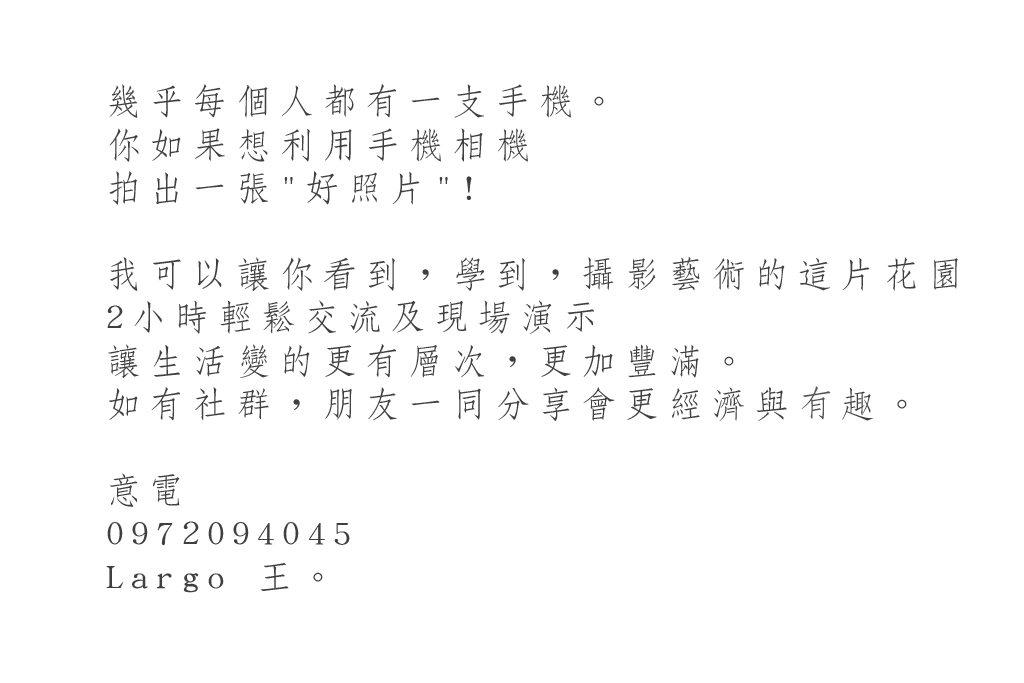
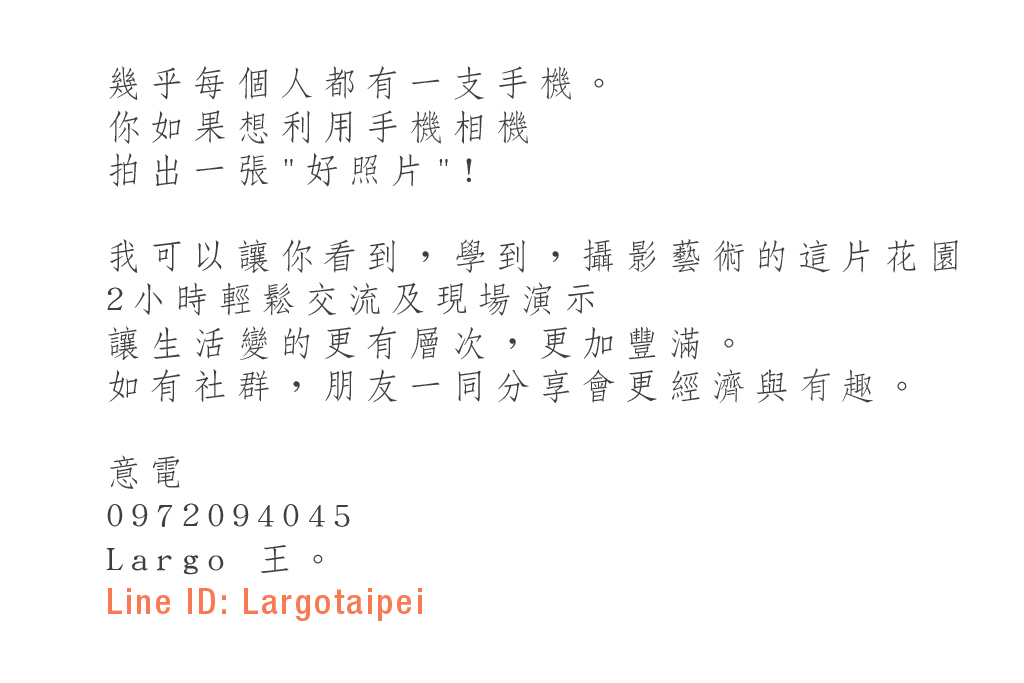
0831
0831

Changed region(s): [[0.0938, 0.3382, 0.9375, 0.6149], [0.0938, 0.0922, 0.5625, 0.3075], [0.0938, 0.6764, 0.4375, 0.9224]]

diff --git a/teaching.html b/teaching.html
@@ -112,6 +112,36 @@
 							<h2></h2>
 							<p></p>
 						</article>
+                                                  <article class="thumb">
+							<a href="images3/fulls/18.jpg" class="image"><img src="images3/thumbs/18.jpg" alt="" /></a>
+							<h2></h2>
+							<p></p>
+						</article>
+						 <article class="thumb">
+							<a href="images3/fulls/19.jpg" class="image"><img src="images3/thumbs/19.jpg" alt="" /></a>
+							<h2></h2>
+							<p></p>
+						</article>
+						 <article class="thumb">
+							<a href="images3/fulls/20.jpg" class="image"><img src="images3/thumbs/20.jpg" alt="" /></a>
+							<h2></h2>
+							<p></p>
+						</article>
+						 <article class="thumb">
+							<a href="images3/fulls/21.jpg" class="image"><img src="images3/thumbs/21.jpg" alt="" /></a>
+							<h2></h2>
+							<p></p>
+						</article>
+						 <article class="thumb">
+							<a href="images3/fulls/22.jpg" class="image"><img src="images3/thumbs/22.jpg" alt="" /></a>
+							<h2></h2>
+							<p></p>
+						</article>
+						 <article class="thumb">
+							<a href="images3/fulls/23.jpg" class="image"><img src="images3/thumbs/23.jpg" alt="" /></a>
+							<h2></h2>
+							<p></p>
+						</article>
 					</div>
 
 				<!-- Footer -->

diff --git a/photo.html b/photo.html
@@ -21,7 +21,8 @@
 					<div class="content">
 						<h1>Largo Photography</h1>
 						<h2>商品,人物,景觀,餐飲,抽象表達<br />
-						0972094045</h2>
+						0972094045 <br />
+						LindID:largotaipei</h2>
 						<a href="#" class="button big alt"><span>Let's Go</span></a>
 					</div>
 					<a href="#" class="button hidden"><span>Let's Go</span></a>
